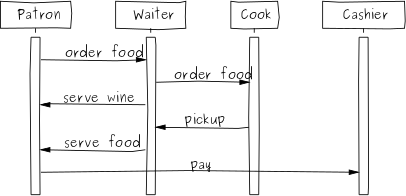
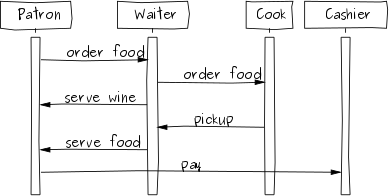
Fix long messages not fitting in sequence diagrams.
Compute the width of longest message between left box and right box and
set left box' right margin accordingly.

Changed region(s): [[0.0, 0.0, 1.0, 1.0]]

diff --git a/suml/suml2pic.py b/suml/suml2pic.py
@@ -79,17 +79,30 @@ def suml2pic(spec, options):
             box1 = boxes.addBox(expr[0][1])
             box2 = boxes.addBox(expr[2][1])
 
-            msgType = expr[1][0]
-            if msgType == '>':
-                messages.append('message(%s,%s,"%s");' % (box1.uid, box2.uid, expr[1][1]))
-            elif msgType == '<':
-                messages.append('message(%s,%s,"%s");' % (box2.uid, box1.uid, expr[1][1]))
+            for x in (box1, box2):
+                x.width = len(x.spec) * getFontWidth()
+
+            msg = expr[1][1]
+            msg_len = len(msg)
+            msg_type = expr[1][0]
+            msg_width = msg_len * getFontWidth()
+
+            if msg_type == '<':
+                box1, box2 = box2, box1
+
+            right_margin = msg_width - box1.width / 2.0 - box2.width / 2.0
+            if right_margin > box1.right_margin:
+                box1.right_margin = right_margin
+
+            messages.append('message(%s,%s,"%s");' % (box1.uid, box2.uid, msg))
 
     all_boxes = boxes.getBoxes()
 
     for box in all_boxes:
-        #pic.append('object(%s,"%s");' % (box.uid, box.spec))
-        pic.append('object3(%s,"%s",%f);' % (box.uid, box.spec, getFontWidth() * len(box.spec)))
+        if box.right_margin == 0:
+            pic.append('object3(%s,"%s",%f);' % (box.uid, box.spec, box.width))
+        else:
+            pic.append('object3(%s,"%s",%f,%f);' % (box.uid, box.spec, box.width, box.right_margin))
     pic.append('step();')
     for box in all_boxes:
         pic.append('active(%s);' % (box.uid))

diff --git a/suml/common.py b/suml/common.py
@@ -1,15 +1,15 @@
 # Copyright (C) 2011 by Aivars Kalvans <aivars.kalvans@gmail.com>
-# 
+#
 # Permission is hereby granted, free of charge, to any person obtaining a copy
 # of this software and associated documentation files (the "Software"), to deal
 # in the Software without restriction, including without limitation the rights
 # to use, copy, modify, merge, publish, distribute, sublicense, and/or sell
 # copies of the Software, and to permit persons to whom the Software is
 # furnished to do so, subject to the following conditions:
-# 
+#
 # The above copyright notice and this permission notice shall be included in
 # all copies or substantial portions of the Software.
-# 
+#
 # THE SOFTWARE IS PROVIDED "AS IS", WITHOUT WARRANTY OF ANY KIND, EXPRESS OR
 # IMPLIED, INCLUDING BUT NOT LIMITED TO THE WARRANTIES OF MERCHANTABILITY,
 # FITNESS FOR A PARTICULAR PURPOSE AND NONINFRINGEMENT. IN NO EVENT SHALL THE
@@ -40,6 +40,8 @@ class Box:
         self.name = name
         self.spec = spec
         self.uid = 'A%03d' % Box.n
+        self.right_margin = 0
+        self.width = 0
         Box.n += 1
 
     def update(self, spec):
@@ -60,7 +62,7 @@ class Boxes:
     def getBoxes(self):
         res = self.boxes.values()
         res.sort(key=attrgetter('uid'))
-        return res 
+        return res
 
 def splitYUML(spec):
     word = ''
